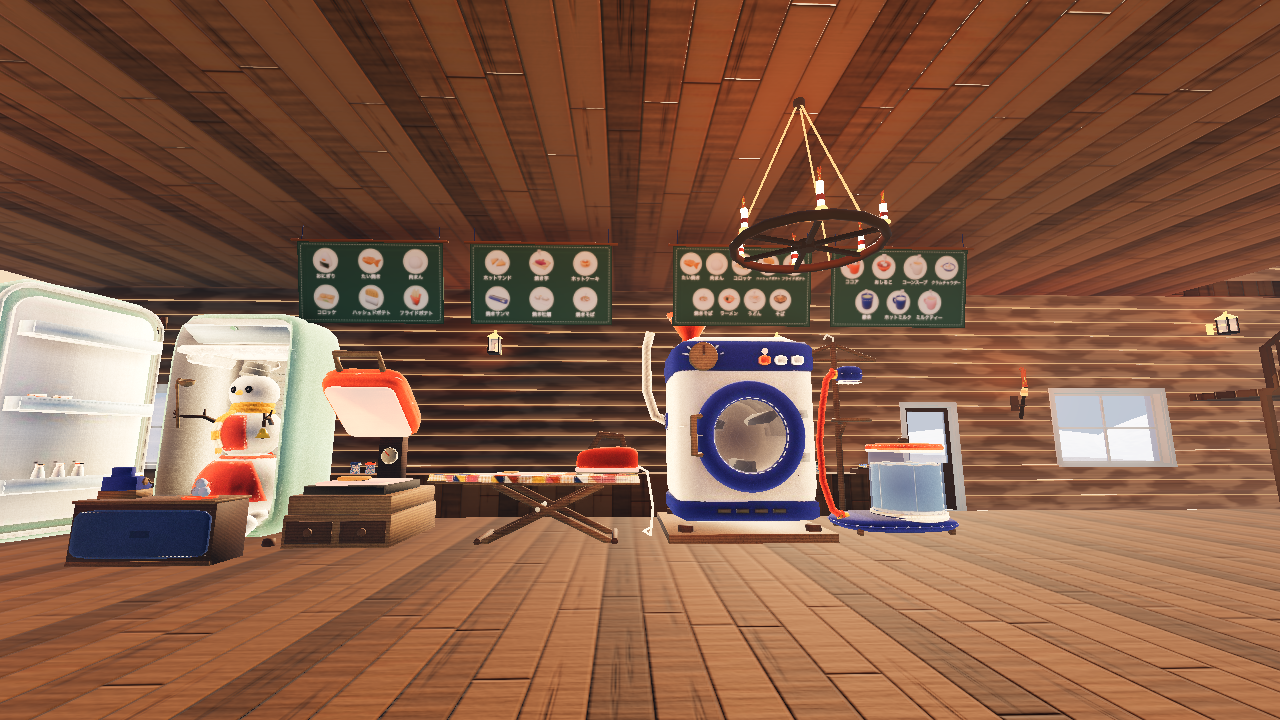
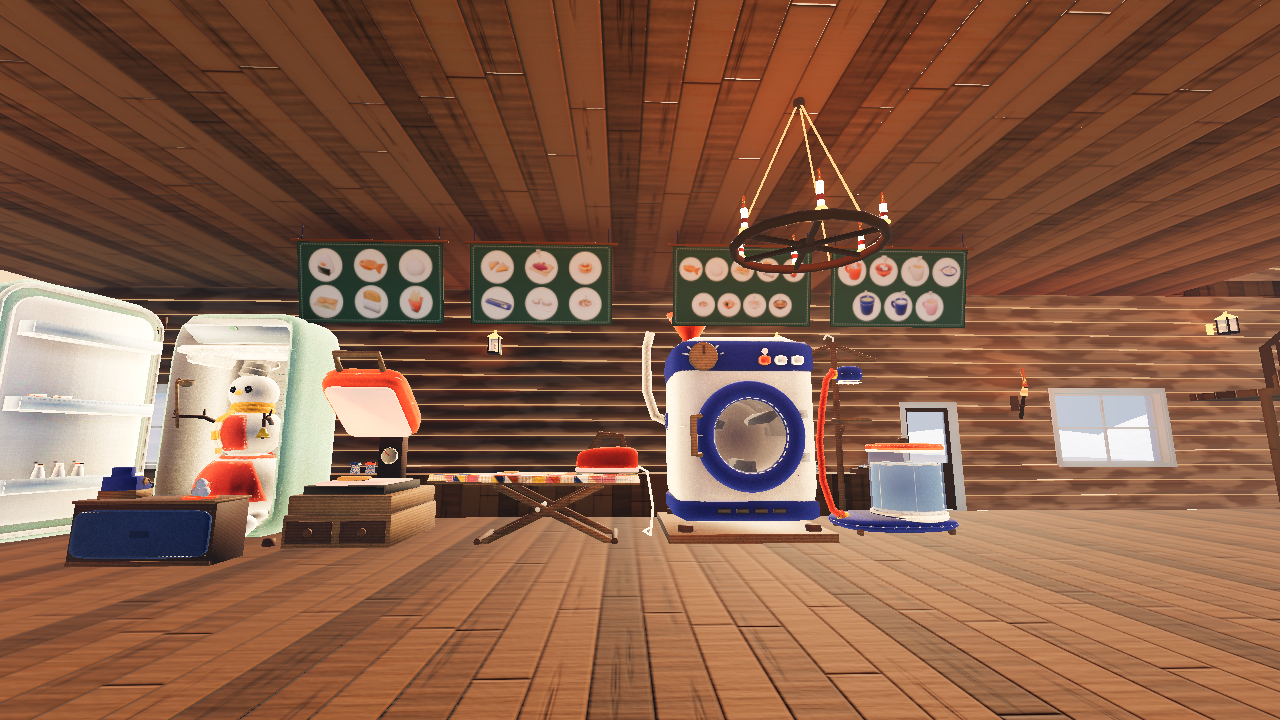
品書きの板から料理の名前を外し、絵を大きくする
代表「名前いらないよ」

diff --git a/design/menu-board/README.md b/design/menu-board/README.md
@@ -5,10 +5,10 @@
 「施設それぞれの上にその施設が調理工程にある食べ物一覧にするだけで大丈夫。値段もいりません」で決まった。
 
 - 厨房の装置（プレス機・アイロン台・乾燥機・衣類スチーマー）それぞれの真上に、幅 2.4 m・高さ 1.35 m の板を吊る
-- 板には、その装置を調理の道（`game/food.gd` の `route()`）に通る料理の絵と名前を 2 段に並べる。値段は書かない
+- 板には、その装置を調理の道（`game/food.gd` の `route()`）に通る料理の絵を 2 段に並べる。名前と値段は書かない（2026-11-02 代表「値段もいりません」「名前いらないよ」）
   - 2 つの装置を通る料理（たい焼き・肉まん・コロッケ・ハッシュドポテト・フライドポテト・焼きそば）は、両方の板に載る
 - 形は、天井から藍の糸で吊った木の棒に深緑のフェルトを掛けたもの。食堂から見上げて読めるよう前へ 12° 傾ける
-- 絵は売り場の画面と同じ描き方（フェルトの継ぎ当て・なみ縫い・刺繍の字）で、起動のときに 1 度だけ描いて画像にする
+- 絵は売り場の画面と同じ描き方（フェルトの継ぎ当て・なみ縫い）で、起動のときに 1 度だけ描いて画像にする
 - ロッジに前からあった無地の板 3 枚（`lodge/build_lodge.py` の `menu_board`）は、ゲームの中で隠す（glb は書き出し直していない）
 - 作りは `game/menu_board.gd`、確かめは `game/tools/menu_board_shots.gd`（`--flat` で板の絵も書き出す）
 
